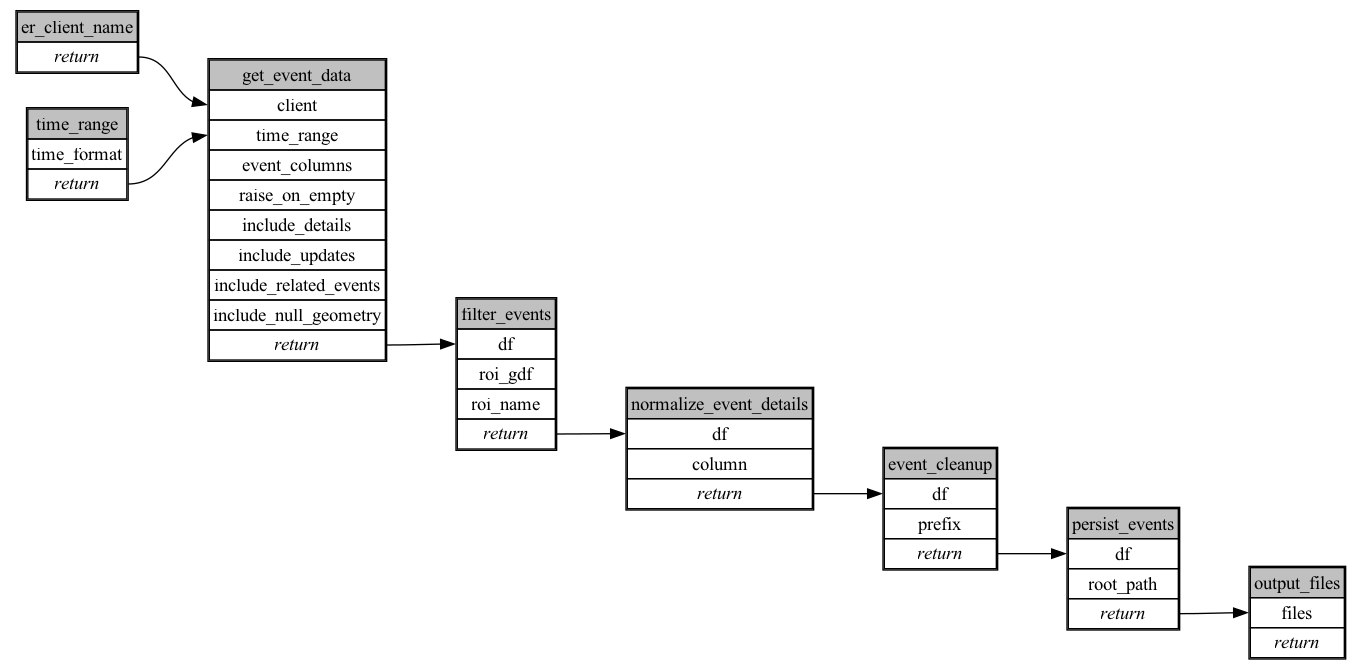
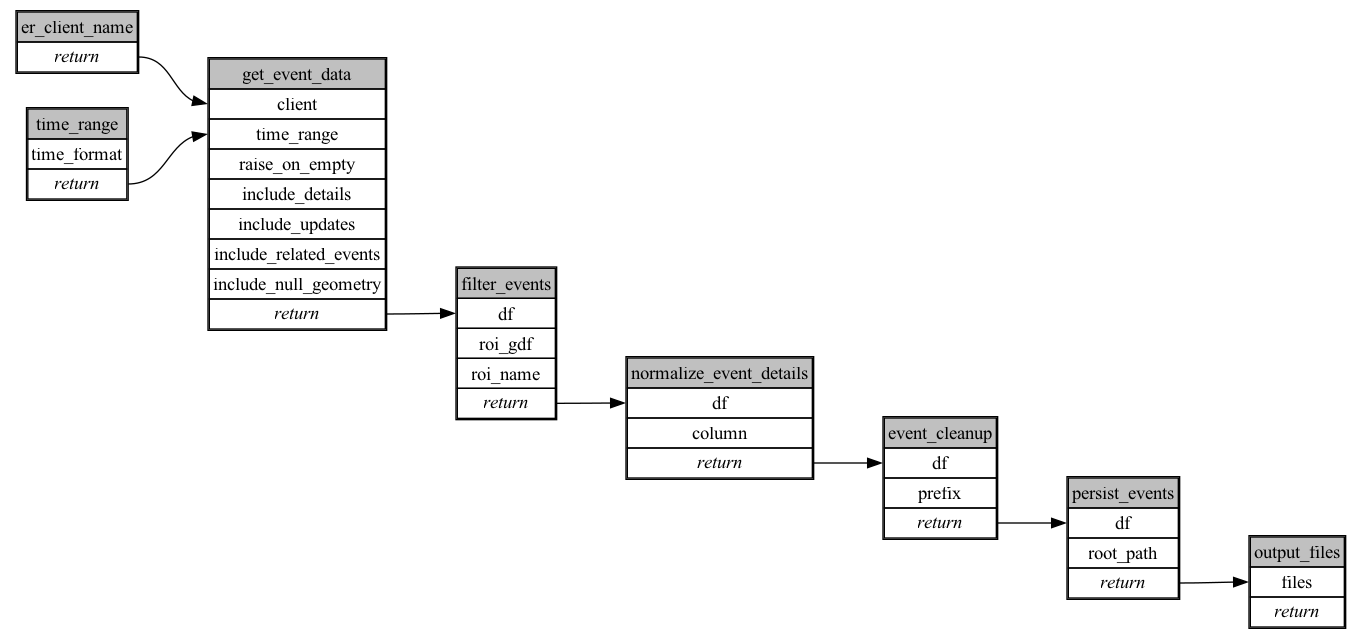
local test

diff --git a/ecoscope-workflows-er-events-workflow/ecoscope_workflows_er_events_workflow/dags/run_async_mock_io.py b/ecoscope-workflows-er-events-workflow/ecoscope_workflows_er_events_workflow/dags/run_async_mock_io.py
@@ -12,20 +12,28 @@ import os
 import warnings  # 🧪
 
 from ecoscope_workflows_core.graph import DependsOn, DependsOnSequence, Graph, Node
-from ecoscope_workflows_core.tasks.filter import set_time_range
-from ecoscope_workflows_core.tasks.io import set_er_connection
+from ecoscope_workflows_core.tasks.filter import set_time_range as set_time_range
+from ecoscope_workflows_core.tasks.io import set_er_connection as set_er_connection
 from ecoscope_workflows_core.testing import create_task_magicmock  # 🧪
 
 get_events = create_task_magicmock(  # 🧪
     anchor="ecoscope_workflows_ext_ecoscope.tasks.io",  # 🧪
     func_name="get_events",  # 🧪
 )  # 🧪
-from ecoscope_workflows_core.tasks.results import gather_output_files
-from ecoscope_workflows_ext_custom.tasks.io import persist_df_wrapper
-from ecoscope_workflows_ext_custom.tasks.transformation import drop_column_prefix
+from ecoscope_workflows_core.tasks.results import (
+    gather_output_files as gather_output_files,
+)
+from ecoscope_workflows_ext_custom.tasks.io import (
+    persist_df_wrapper as persist_df_wrapper,
+)
+from ecoscope_workflows_ext_custom.tasks.transformation import (
+    drop_column_prefix as drop_column_prefix,
+)
 from ecoscope_workflows_ext_ecoscope.tasks.transformation import (
-    apply_reloc_coord_filter,
-    normalize_column,
+    apply_reloc_coord_filter as apply_reloc_coord_filter,
+)
+from ecoscope_workflows_ext_ecoscope.tasks.transformation import (
+    normalize_column as normalize_column,
 )
 
 from ..params import Params
@@ -78,16 +86,6 @@ def main(params: Params):
             partial={
                 "client": DependsOn("er_client_name"),
                 "time_range": DependsOn("time_range"),
-                "event_columns": [
-                    "id",
-                    "time",
-                    "event_type",
-                    "event_category",
-                    "reported_by",
-                    "serial_number",
-                    "geometry",
-                    "event_details",
-                ],
                 "raise_on_empty": False,
                 "include_details": True,
                 "include_updates": False,

diff --git a/ecoscope-workflows-er-events-workflow/ecoscope_workflows_er_events_workflow/dags/run_async.py b/ecoscope-workflows-er-events-workflow/ecoscope_workflows_er_events_workflow/dags/run_async.py
@@ -3,15 +3,23 @@ import json
 import os
 
 from ecoscope_workflows_core.graph import DependsOn, DependsOnSequence, Graph, Node
-from ecoscope_workflows_core.tasks.filter import set_time_range
-from ecoscope_workflows_core.tasks.io import set_er_connection
-from ecoscope_workflows_core.tasks.results import gather_output_files
-from ecoscope_workflows_ext_custom.tasks.io import persist_df_wrapper
-from ecoscope_workflows_ext_custom.tasks.transformation import drop_column_prefix
-from ecoscope_workflows_ext_ecoscope.tasks.io import get_events
+from ecoscope_workflows_core.tasks.filter import set_time_range as set_time_range
+from ecoscope_workflows_core.tasks.io import set_er_connection as set_er_connection
+from ecoscope_workflows_core.tasks.results import (
+    gather_output_files as gather_output_files,
+)
+from ecoscope_workflows_ext_custom.tasks.io import (
+    persist_df_wrapper as persist_df_wrapper,
+)
+from ecoscope_workflows_ext_custom.tasks.transformation import (
+    drop_column_prefix as drop_column_prefix,
+)
+from ecoscope_workflows_ext_ecoscope.tasks.io import get_events as get_events
 from ecoscope_workflows_ext_ecoscope.tasks.transformation import (
-    apply_reloc_coord_filter,
-    normalize_column,
+    apply_reloc_coord_filter as apply_reloc_coord_filter,
+)
+from ecoscope_workflows_ext_ecoscope.tasks.transformation import (
+    normalize_column as normalize_column,
 )
 
 from ..params import Params
@@ -62,16 +70,6 @@ def main(params: Params):
             partial={
                 "client": DependsOn("er_client_name"),
                 "time_range": DependsOn("time_range"),
-                "event_columns": [
-                    "id",
-                    "time",
-                    "event_type",
-                    "event_category",
-                    "reported_by",
-                    "serial_number",
-                    "geometry",
-                    "event_details",
-                ],
                 "raise_on_empty": False,
                 "include_details": True,
                 "include_updates": False,

diff --git a/ecoscope-workflows-er-events-workflow/ecoscope_workflows_er_events_workflow/dags/run_sequential_mock_io.py b/ecoscope-workflows-er-events-workflow/ecoscope_workflows_er_events_workflow/dags/run_sequential_mock_io.py
@@ -11,20 +11,28 @@ import json
 import os
 import warnings  # 🧪
 
-from ecoscope_workflows_core.tasks.filter import set_time_range
-from ecoscope_workflows_core.tasks.io import set_er_connection
+from ecoscope_workflows_core.tasks.filter import set_time_range as set_time_range
+from ecoscope_workflows_core.tasks.io import set_er_connection as set_er_connection
 from ecoscope_workflows_core.testing import create_task_magicmock  # 🧪
 
 get_events = create_task_magicmock(  # 🧪
     anchor="ecoscope_workflows_ext_ecoscope.tasks.io",  # 🧪
     func_name="get_events",  # 🧪
 )  # 🧪
-from ecoscope_workflows_core.tasks.results import gather_output_files
-from ecoscope_workflows_ext_custom.tasks.io import persist_df_wrapper
-from ecoscope_workflows_ext_custom.tasks.transformation import drop_column_prefix
+from ecoscope_workflows_core.tasks.results import (
+    gather_output_files as gather_output_files,
+)
+from ecoscope_workflows_ext_custom.tasks.io import (
+    persist_df_wrapper as persist_df_wrapper,
+)
+from ecoscope_workflows_ext_custom.tasks.transformation import (
+    drop_column_prefix as drop_column_prefix,
+)
 from ecoscope_workflows_ext_ecoscope.tasks.transformation import (
-    apply_reloc_coord_filter,
-    normalize_column,
+    apply_reloc_coord_filter as apply_reloc_coord_filter,
+)
+from ecoscope_workflows_ext_ecoscope.tasks.transformation import (
+    normalize_column as normalize_column,
 )
 
 from ..params import Params
@@ -61,16 +69,6 @@ def main(params: Params):
         .partial(
             client=er_client_name,
             time_range=time_range,
-            event_columns=[
-                "id",
-                "time",
-                "event_type",
-                "event_category",
-                "reported_by",
-                "serial_number",
-                "geometry",
-                "event_details",
-            ],
             raise_on_empty=False,
             include_details=True,
             include_updates=False,

diff --git a/ecoscope-workflows-er-events-workflow/ecoscope_workflows_er_events_workflow/dags/jupytext.py b/ecoscope-workflows-er-events-workflow/ecoscope_workflows_er_events_workflow/dags/jupytext.py
@@ -12,15 +12,23 @@
 
 import os
 
-from ecoscope_workflows_core.tasks.filter import set_time_range
-from ecoscope_workflows_core.tasks.io import set_er_connection
-from ecoscope_workflows_core.tasks.results import gather_output_files
-from ecoscope_workflows_ext_custom.tasks.io import persist_df_wrapper
-from ecoscope_workflows_ext_custom.tasks.transformation import drop_column_prefix
-from ecoscope_workflows_ext_ecoscope.tasks.io import get_events
+from ecoscope_workflows_core.tasks.filter import set_time_range as set_time_range
+from ecoscope_workflows_core.tasks.io import set_er_connection as set_er_connection
+from ecoscope_workflows_core.tasks.results import (
+    gather_output_files as gather_output_files,
+)
+from ecoscope_workflows_ext_custom.tasks.io import (
+    persist_df_wrapper as persist_df_wrapper,
+)
+from ecoscope_workflows_ext_custom.tasks.transformation import (
+    drop_column_prefix as drop_column_prefix,
+)
+from ecoscope_workflows_ext_ecoscope.tasks.io import get_events as get_events
 from ecoscope_workflows_ext_ecoscope.tasks.transformation import (
-    apply_reloc_coord_filter,
-    normalize_column,
+    apply_reloc_coord_filter as apply_reloc_coord_filter,
+)
+from ecoscope_workflows_ext_ecoscope.tasks.transformation import (
+    normalize_column as normalize_column,
 )
 
 # %% [markdown]
@@ -79,6 +87,7 @@ er_client_name = (
 
 get_event_data_params = dict(
     event_types=...,
+    event_columns=...,
     include_display_values=...,
 )
 
@@ -93,16 +102,6 @@ get_event_data = (
     .partial(
         client=er_client_name,
         time_range=time_range,
-        event_columns=[
-            "id",
-            "time",
-            "event_type",
-            "event_category",
-            "reported_by",
-            "serial_number",
-            "geometry",
-            "event_details",
-        ],
         raise_on_empty=False,
         include_details=True,
         include_updates=False,

diff --git a/ecoscope-workflows-er-events-workflow/ecoscope_workflows_er_events_workflow/dags/run_sequential.py b/ecoscope-workflows-er-events-workflow/ecoscope_workflows_er_events_workflow/dags/run_sequential.py
@@ -2,15 +2,23 @@
 import json
 import os
 
-from ecoscope_workflows_core.tasks.filter import set_time_range
-from ecoscope_workflows_core.tasks.io import set_er_connection
-from ecoscope_workflows_core.tasks.results import gather_output_files
-from ecoscope_workflows_ext_custom.tasks.io import persist_df_wrapper
-from ecoscope_workflows_ext_custom.tasks.transformation import drop_column_prefix
-from ecoscope_workflows_ext_ecoscope.tasks.io import get_events
+from ecoscope_workflows_core.tasks.filter import set_time_range as set_time_range
+from ecoscope_workflows_core.tasks.io import set_er_connection as set_er_connection
+from ecoscope_workflows_core.tasks.results import (
+    gather_output_files as gather_output_files,
+)
+from ecoscope_workflows_ext_custom.tasks.io import (
+    persist_df_wrapper as persist_df_wrapper,
+)
+from ecoscope_workflows_ext_custom.tasks.transformation import (
+    drop_column_prefix as drop_column_prefix,
+)
+from ecoscope_workflows_ext_ecoscope.tasks.io import get_events as get_events
 from ecoscope_workflows_ext_ecoscope.tasks.transformation import (
-    apply_reloc_coord_filter,
-    normalize_column,
+    apply_reloc_coord_filter as apply_reloc_coord_filter,
+)
+from ecoscope_workflows_ext_ecoscope.tasks.transformation import (
+    normalize_column as normalize_column,
 )
 
 from ..params import Params
@@ -45,16 +53,6 @@ def main(params: Params):
         .partial(
             client=er_client_name,
             time_range=time_range,
-            event_columns=[
-                "id",
-                "time",
-                "event_type",
-                "event_category",
-                "reported_by",
-                "serial_number",
-                "geometry",
-                "event_details",
-            ],
             raise_on_empty=False,
             include_details=True,
             include_updates=False,

diff --git a/ecoscope-workflows-er-events-workflow/ecoscope_workflows_er_events_workflow/formdata.py b/ecoscope-workflows-er-events-workflow/ecoscope_workflows_er_events_workflow/formdata.py
@@ -19,6 +19,9 @@ class GetEventData(BaseModel):
         description="Specify the event type(s) to analyze (optional). Leave this section empty to analyze all event types.",
         title="Event Types",
     )
+    event_columns: List[str] = Field(
+        ..., description="The interested event columns", title="Event Columns"
+    )
     include_display_values: Optional[bool] = Field(
         True,
         description="Whether or not to include display values for event types",

diff --git a/ecoscope-workflows-er-events-workflow/ecoscope_workflows_er_events_workflow/params.py b/ecoscope-workflows-er-events-workflow/ecoscope_workflows_er_events_workflow/params.py
@@ -19,6 +19,9 @@ class GetEventData(BaseModel):
         description="Specify the event type(s) to analyze (optional). Leave this section empty to analyze all event types.",
         title="Event Types",
     )
+    event_columns: List[str] = Field(
+        ..., description="The interested event columns", title="Event Columns"
+    )
     include_display_values: Optional[bool] = Field(
         True,
         description="Whether or not to include display values for event types",

diff --git a/ecoscope-workflows-er-events-workflow/README.md b/ecoscope-workflows-er-events-workflow/README.md
@@ -5,8 +5,8 @@
 
 ```yaml
 # fingerprint:
-artifacts_sha256_basic: 5bf66baeff0cadda38d7230cc77e9c51fcee93b7d62377dc3c78a6d85eb8d9b2
-artifacts_sha256_strict: 9e62dea61ce0ac4972c3c769ad2bcb9f314e41b1310c14794769075f93f16903
+artifacts_sha256_basic: 867a9480be1d4509476a9f30d1e10d668e2d7ad36b6f45debc8dd4382bc2c71a
+artifacts_sha256_strict: 2e842a457ddca0ee9bf4aa3f0386f13d73a83f08f0c9108e679e9d0365954ff5
 installed_requirements:
 - channel: https://repo.prefix.dev/ecoscope-workflows/
   name: ecoscope-workflows-core
@@ -17,8 +17,8 @@ installed_requirements:
 - channel: https://repo.prefix.dev/ecoscope-workflows-custom/
   name: ecoscope-workflows-ext-custom
   version: {version: ==0.0.8.dev2+g1913a0d32.d20251204}
-params_sha256: f04020ff4a40fb9cc2d200ca5f021a9d5d2873ba7a98feddf4d3d9f9822b1813
-spec_sha256: 6cda6801ab3870346d53640541e3063325a95d6c40b06a1fbb8fd928913d1788
+params_sha256: 61436fc5ecccd97614e9f40a4f9decc69b4070572130ce4d62e550a354628bcf
+spec_sha256: cfeb3e457bf319cdd034e96607d19b14ec41d73baccd3044cc82d3653a25440c
 
 ```
 

diff --git a/README.md b/README.md
@@ -1,2 +1,2 @@
-# wt-template
-Template repo for Ecoscope workflow templates
+# EarthRanger Events
+Download Events from EarthRanger
